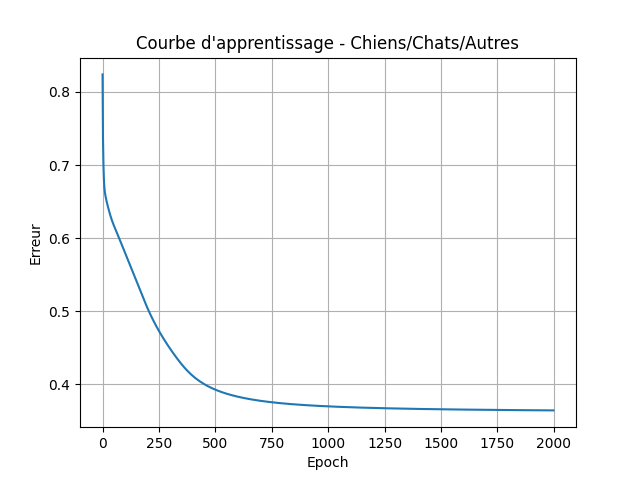
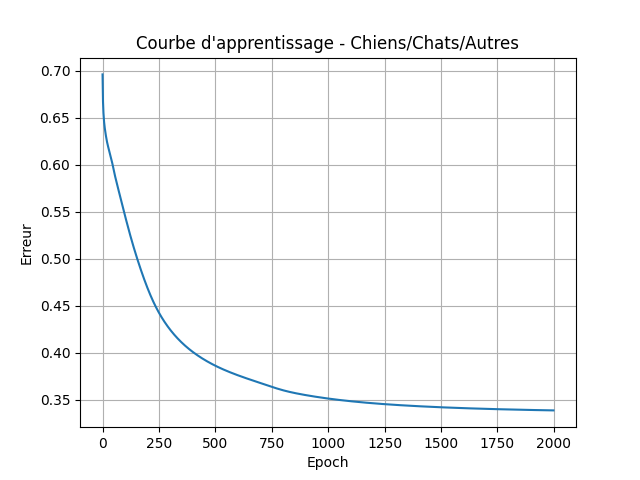
Python app with flask

diff --git a/C/pmc.c b/C/pmc.c
@@ -3,101 +3,66 @@
 #include <math.h>
 #include <time.h>
 
+#ifdef _WIN32
+#define EXPORT __declspec(dllexport)
+#else
+#define EXPORT
+#endif
+
 // On fixe le nombre de couches a 3 : entree + 1 couche cachee + sortie
 #define NB_COUCHES   3
 // Taille maximale d'une couche ( 1024 neurones max par couche)
 #define MAX_NEURONES 1024
 
-// Taille de chaque couche, ex : taille[0]=2, taille[1]=4, taille[2]=1
 int taille[NB_COUCHES];
-
-// Les poids entre les neurones
-// poids[i][j][k] = poids entre le neurone k (couche i-1) et le neurone j (couche i)
 double poids[NB_COUCHES][MAX_NEURONES][MAX_NEURONES];
-
-// Le biais de chaque neurone (un biais par neurone)
 double biais[NB_COUCHES][MAX_NEURONES];
-
-// La valeur de sortie de chaque neurone apres l'activation
 double sortie[NB_COUCHES][MAX_NEURONES];
-
-// L'erreur locale de chaque neurone, utilisee pendant la backpropagation
 double delta[NB_COUCHES][MAX_NEURONES];
 
-
-// La fonction sigmoid ecrase n'importe quelle valeur entre 0 et 1
-// C'est la fonction d'activation qu'on applique a chaque neurone
 double sigmoid(double x) {
     return 1.0 / (1.0 + exp(-x));
 }
 
-
-// Initialise le reseau avec des poids aleatoires entre -1 et 1
-// nb_entrees  : nombre de neurones dans la couche d'entree
-// nb_cachees  : nombre de neurones dans la couche cachee
-// nb_sorties  : nombre de neurones dans la couche de sortie
-void py_init(int nb_entrees, int nb_cachees, int nb_sorties) {
-    srand(time(NULL)); // initialise le generateur aleatoire
-
+EXPORT void py_init(int nb_entrees, int nb_cachees, int nb_sorties) {
+    srand(time(NULL));
     taille[0] = nb_entrees;
     taille[1] = nb_cachees;
     taille[2] = nb_sorties;
-
-    // Pour chaque couche (on commence a 1 car la couche 0 n'a pas de poids)
     for (int i = 1; i < NB_COUCHES; i++)
         for (int j = 0; j < taille[i]; j++) {
-            // Biais aleatoire entre -1 et 1
             biais[i][j] = ((double)rand() / RAND_MAX) * 2 - 1;
-            // Poids aleatoires entre -1 et 1
             for (int k = 0; k < taille[i-1]; k++)
                 poids[i][j][k] = ((double)rand() / RAND_MAX) * 2 - 1;
         }
 }
 
-
-// Le forward pass : on fait passer les donnees d'entree a travers le reseau
-// pour calculer la sortie du reseau
 void forward(double *entrees) {
-    // Couche 0 : on copie simplement les valeurs d'entree
     for (int j = 0; j < taille[0]; j++)
         sortie[0][j] = entrees[j];
-
-    // Pour chaque couche suivante, on calcule la sortie de chaque neurone
     for (int i = 1; i < NB_COUCHES; i++)
         for (int j = 0; j < taille[i]; j++) {
-            // On commence par le biais
             double s = biais[i][j];
-            // On ajoute la somme des poids * sorties de la couche precedente
             for (int k = 0; k < taille[i-1]; k++)
                 s += poids[i][j][k] * sortie[i-1][k];
-            // On applique sigmoid pour obtenir la sortie finale du neurone
             sortie[i][j] = sigmoid(s);
         }
 }
 
-
-// La backpropagation : on calcule l'erreur et on corrige les poids
 void backprop(double *cibles, double alpha) {
-    int last = NB_COUCHES - 1; // indice de la derniere couche
-
-    // Etape 1 : calcul de l'erreur pour la couche de sortie
+    int last = NB_COUCHES - 1;
     for (int j = 0; j < taille[last]; j++) {
         double s = sortie[last][j];
         delta[last][j] = (cibles[j] - s) * s * (1 - s);
     }
-
-    // Etape 2 : on remonte l'erreur vers les couches cachees (backpropagation)
     for (int i = last - 1; i >= 1; i--)
         for (int j = 0; j < taille[i]; j++) {
-            // On somme les erreurs venant de la couche suivante
             double e = 0;
             for (int k = 0; k < taille[i+1]; k++)
                 e += poids[i+1][k][j] * delta[i+1][k];
             double s = sortie[i][j];
             delta[i][j] = e * s * (1 - s);
         }
-
-    // Etape 3 : on met a jour les poids et biais avec les erreurs calculees
     for (int i = 1; i < NB_COUCHES; i++)
         for (int j = 0; j < taille[i]; j++) {
             biais[i][j] += alpha * delta[i][j];
@@ -106,54 +71,29 @@ void backprop(double *cibles, double alpha) {
         }
 }
 
-
-// Entraine le reseau sur tous les exemples pendant un certain nombre d'epochs
-// X       : toutes les entrees mises bout a bout dans un tableau 1D
-// Y       : toutes les cibles mises bout a bout dans un tableau 1D
-// nb_ex   : nombre d'exemples
-// nb_in   : nombre d'entrees par exemple
-// nb_out  : nombre de sorties par exemple
-// epochs  : nombre de fois qu'on repasse sur tous les exemples
-// alpha   : taux d'apprentissage
-// pertes  : tableau rempli avec l'erreur moyenne a chaque epoch (pour la courbe)
-void py_train(double *X, double *Y, int nb_ex, int nb_in, int nb_out,
+EXPORT void py_train(double *X, double *Y, int nb_ex, int nb_in, int nb_out,
               int epochs, double alpha, double *pertes) {
-
     for (int ep = 0; ep < epochs; ep++) {
         double perte = 0;
-
-        // On passe sur chaque exemple
         for (int ex = 0; ex < nb_ex; ex++) {
-            // X + ex * nb_in : pointeur vers l'exemple numero ex
             forward(X + ex * nb_in);
             backprop(Y + ex * nb_out, alpha);
-
-            // On calcule l'erreur quadratique pour cet exemple
             for (int j = 0; j < nb_out; j++) {
                 double d = Y[ex * nb_out + j] - sortie[NB_COUCHES-1][j];
                 perte += d * d;
             }
         }
-
-        // On sauvegarde la perte moyenne de cet epoch
         pertes[ep] = perte / nb_ex;
     }
 }
 
-
-// Fait une prediction pour une entree donnee
-// entrees    : les valeurs d'entree
-// out        : tableau dans lequel on ecrit la sortie
-// nb_out     : nombre de sorties
-void py_predict(double *entrees, double *out, int nb_out) {
+EXPORT void py_predict(double *entrees, double *out, int nb_out) {
     forward(entrees);
     for (int j = 0; j < nb_out; j++)
         out[j] = sortie[NB_COUCHES-1][j];
 }
 
-
-// Sauvegarde tous les poids et biais dans un fichier texte
-void py_sauvegarder(const char *f) {
+EXPORT void py_sauvegarder(const char *f) {
     FILE *fp = fopen(f, "w");
     for (int i = 1; i < NB_COUCHES; i++)
         for (int j = 0; j < taille[i]; j++) {
@@ -164,9 +104,7 @@ void py_sauvegarder(const char *f) {
     fclose(fp);
 }
 
-
-// Charge les poids et biais depuis un fichier texte
-void py_charger(const char *f) {
+EXPORT void py_charger(const char *f) {
     FILE *fp = fopen(f, "r");
     for (int i = 1; i < NB_COUCHES; i++)
         for (int j = 0; j < taille[i]; j++) {

diff --git a/server/app.py b/server/app.py
@@ -1,0 +1,64 @@
+from flask import Flask, request, jsonify
+from PIL import Image
+import sys
+import os
+import io
+import numpy as np
+
+# Ajouter le dossier python au path pour importer functions
+sys.path.append(os.path.join(os.path.dirname(__file__), '../python'))
+from functions import get_c_library, load_dataset
+
+app = Flask(__name__)
+
+# Chargement de la lib C au démarrage
+lib = get_c_library()
+
+# Paramètres
+TAILLE = 128
+NB_FEATURES = TAILLE * TAILLE * 3
+NB_CLASSES = 3
+
+# Création et entraînement du modèle au démarrage
+print("Chargement et entraînement du modèle...")
+X_train, Y_train = load_dataset(
+    os.path.join(os.path.dirname(__file__), '../dataset/train_dataset')
+)
+
+model = lib.create_linear_model(NB_FEATURES, NB_CLASSES)
+
+for _ in range(1000):
+    for i in range(len(X_train)):
+        lib.train_one_linear(model, X_train[i], Y_train[i], 0.01)
+
+print("Modèle prêt !")
+
+LABELS = {0: "chat", 1: "chien", 2: "autre"}
+
[email redacted]("/predict", methods=["POST"])
+def predict():
+    if "image" not in request.files:
+        return jsonify({"erreur": "Aucune image reçue"}), 400
+
+    file = request.files["image"]
+    
+    img = Image.open(io.BytesIO(file.read()))
+    img = img.convert("RGB").resize((TAILLE, TAILLE))
+    flat = (np.array(img).flatten() / 255.0).tolist()
+
+    from ctypes import c_double
+    c_array = (c_double * NB_FEATURES)(*flat)
+
+    result = lib.predict_linear(model, c_array)
+
+    return jsonify({
+        "prediction": LABELS[result],
+        "classe": result
+    })
+
[email redacted]("/", methods=["GET"])
+def index():
+    return jsonify({"status": "ok", "message": "API chien/chat/autre"})
+
+if __name__ == "__main__":
+    app.run(debug=True, port=5000)

diff --git a/python/pmc.py b/python/pmc.py
@@ -83,7 +83,7 @@ Y = [[0],   [1],   [1],   [0]]    # les sorties attendues
 init(2, 4, 1)
 
 # On entraine le reseau sur 3000 epochs avec un taux d'apprentissage de 0.1
-pertes = entrainer(X, Y, epochs=3000, alpha=0.1)
+pertes = entrainer(X, Y, epochs=10000, alpha=0.1)
 
 # On affiche les predictions apres entrainement
 print("Resultats XOR :")